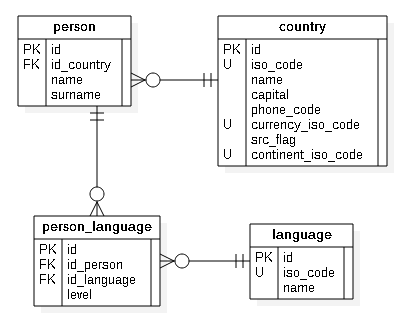
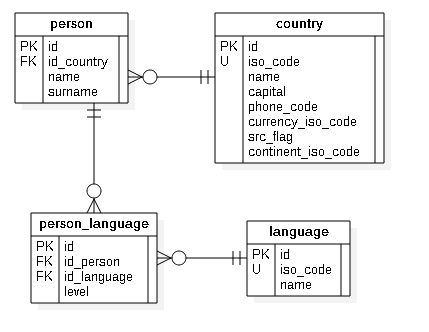
Se removio uniqued a la tabla country en las columnas continent_iso_code y currency_iso_code

Changed region(s): [[0.0312, 0.0301, 0.9375, 0.9337]]

diff --git a/database/migrations/2023_04_25_030143_create_country_table.php b/database/migrations/2023_04_25_030143_create_country_table.php
@@ -17,9 +17,9 @@ return new class extends Migration
             $table->string('name');
             $table->string('capital');
             $table->string('phone_code');
-            $table->string('currency_iso_code')->uniqued();
+            $table->string('currency_iso_code');
             $table->string('src_flag');
-            $table->string('continent_iso_code')->uniqued();
+            $table->string('continent_iso_code');
             $table->timestamps();
         });
     }
